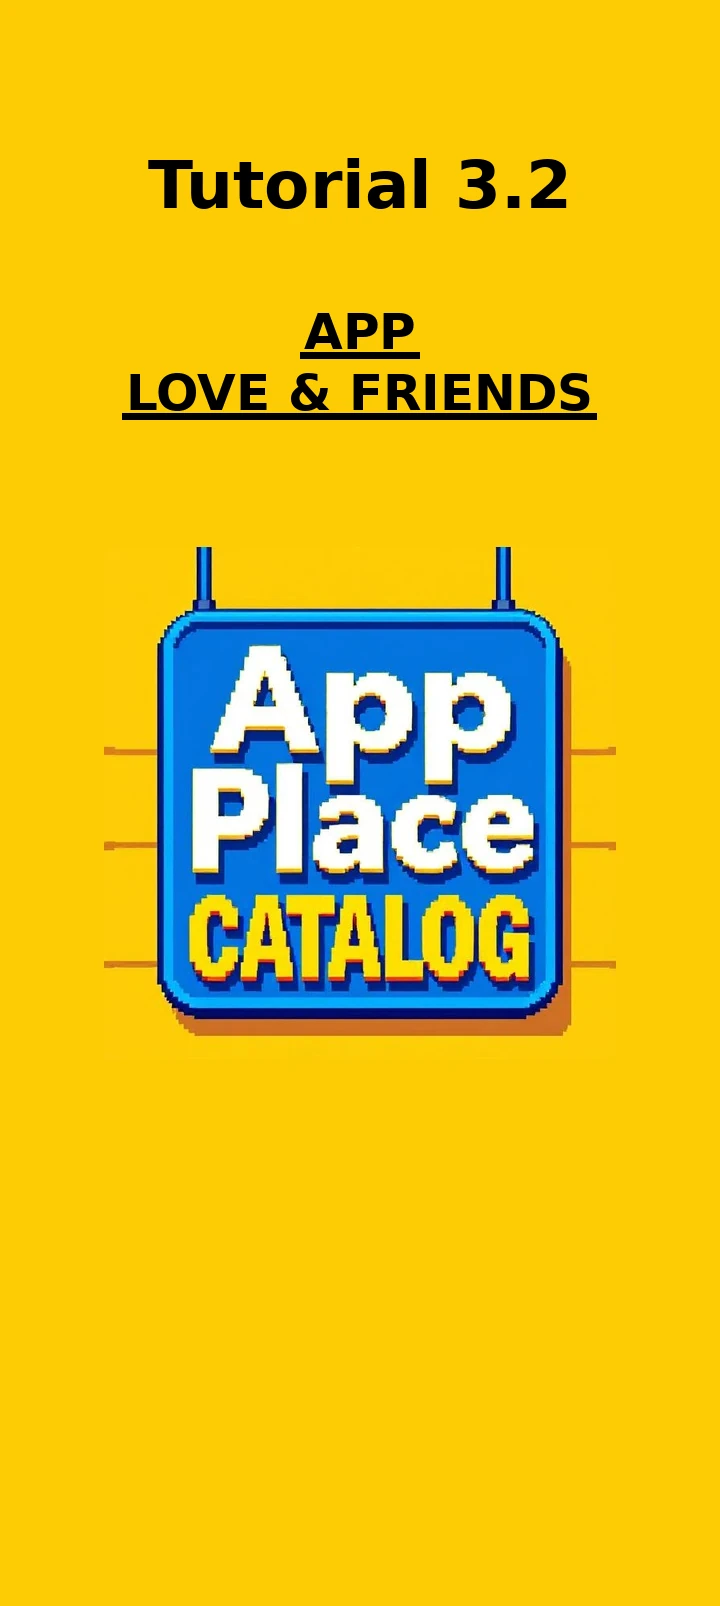
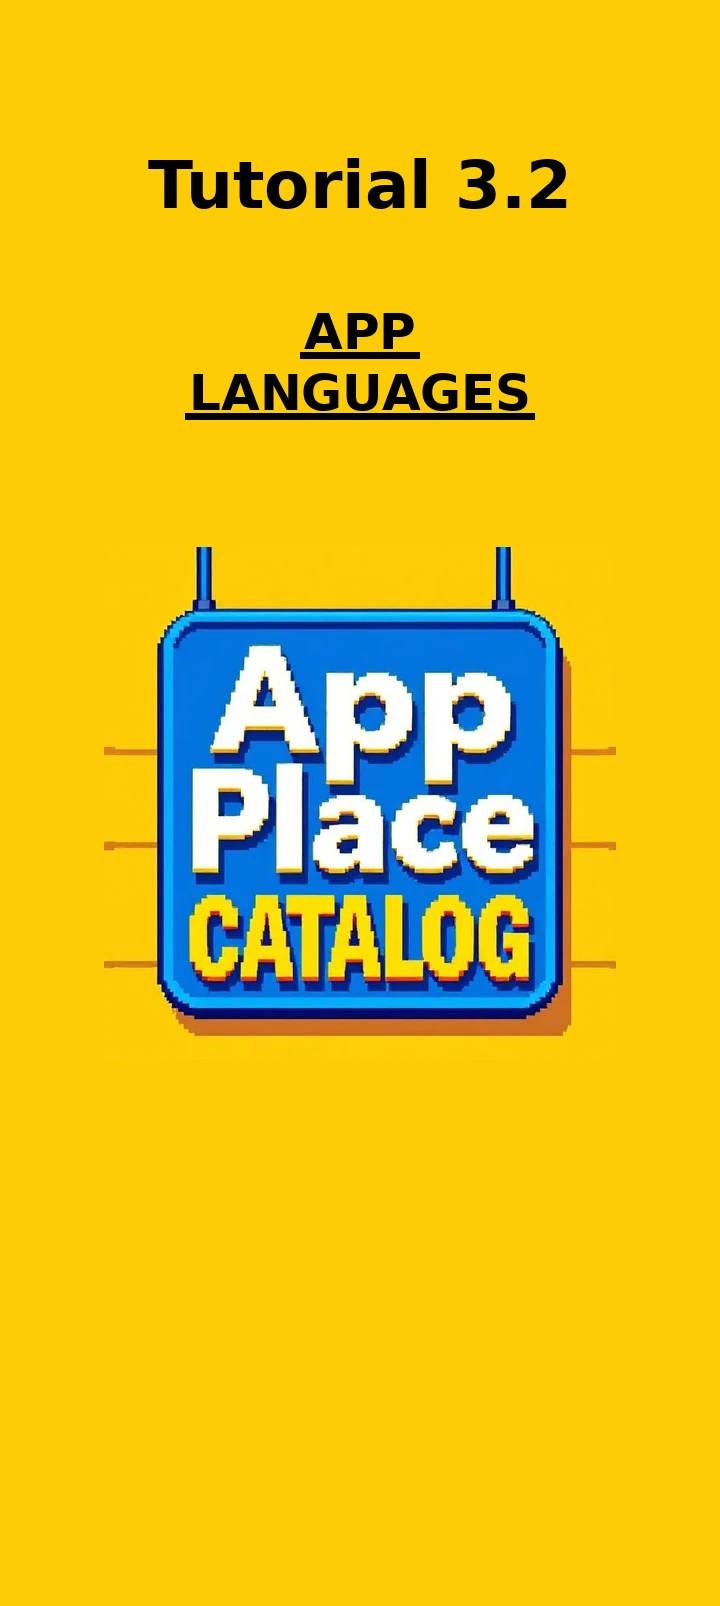
Reordena el menu: Love and Friends como 3.1 y Eliminar cuenta al final

Changed region(s): [[0.1528, 0.2179, 0.825, 0.2802]]

diff --git a/src/App.tsx b/src/App.tsx
@@ -5,7 +5,7 @@ import { useTranslation } from 'react-i18next'
 import LanguageSwitcher from './components/LanguageSwitcher'
 import type { SupportedLanguage } from './i18n'
 import i18next from './i18n'
-import { APPS, leerRuta, rutaDe } from './rutas'
+import { APPS, SLUGS_APPS, leerRuta, rutaDe } from './rutas'
 
 const VELOCIDADES = [1, 1.5, 2, 3, 4]
 
@@ -81,11 +81,11 @@ function claseBoton(activo: boolean, creciendo = true) {
   ].join(' ')
 }
 
-// Submenu de APPS: VOLVER cierra, las otras dos abren su tutorial
+// Submenu de APPS: VOLVER cierra, las demas abren su tutorial. El orden y las
+// claves salen de slugs.json, asi que reordenarlas no obliga a tocar el codigo
 const APPS_MENU = [
   { clave: 'apps.volver', sub: null as number | null },
-  { clave: 'apps.languages', sub: 0 as number | null },
-  { clave: 'apps.loveAndFriends', sub: 1 as number | null }
+  ...SLUGS_APPS.en.map((slug, i) => ({ clave: `apps.${slug}`, sub: i as number | null }))
 ]
 
 function setMeta(selector: string, content: string) {
@@ -410,9 +410,7 @@ export default function App() {
     }
 
     const nombre =
-      appActiva === null
-        ? t(`videos.v${videoActivo}`)
-        : t(appActiva === 0 ? 'apps.languages' : 'apps.loveAndFriends')
+      appActiva === null ? t(`videos.v${videoActivo}`) : t(`apps.${SLUGS_APPS.en[appActiva]}`)
     const title = `${nombre} \u2014 ${t('hero.title')}`
     const description = t('meta.description')
     const url = `https://ap3c.app${camino}`

diff --git a/vite.config.ts b/vite.config.ts
@@ -49,8 +49,8 @@ function paginaDe(plantilla: string, idioma: Idioma, indice: number, sub: number
   const cola = sub === null ? '' : `/${SLUGS_APPS[idioma][sub]}`
   const camino = `/${idioma}/${SLUGS[idioma][indice]}${cola}`
   const url = `${DOMINIO}${camino}`
-  const nombre =
-    sub === null ? dic.videos[`v${indice}`] : dic.apps[sub === 0 ? 'languages' : 'loveAndFriends']
+  // La clave del diccionario es el propio slug, asi el orden lo manda slugs.json
+  const nombre = sub === null ? dic.videos[`v${indice}`] : dic.apps[SLUGS_APPS[idioma][sub]]
   const titulo = `${nombre} \u2014 ${dic.hero.title}`
   const descripcion = dic.meta.description
 
